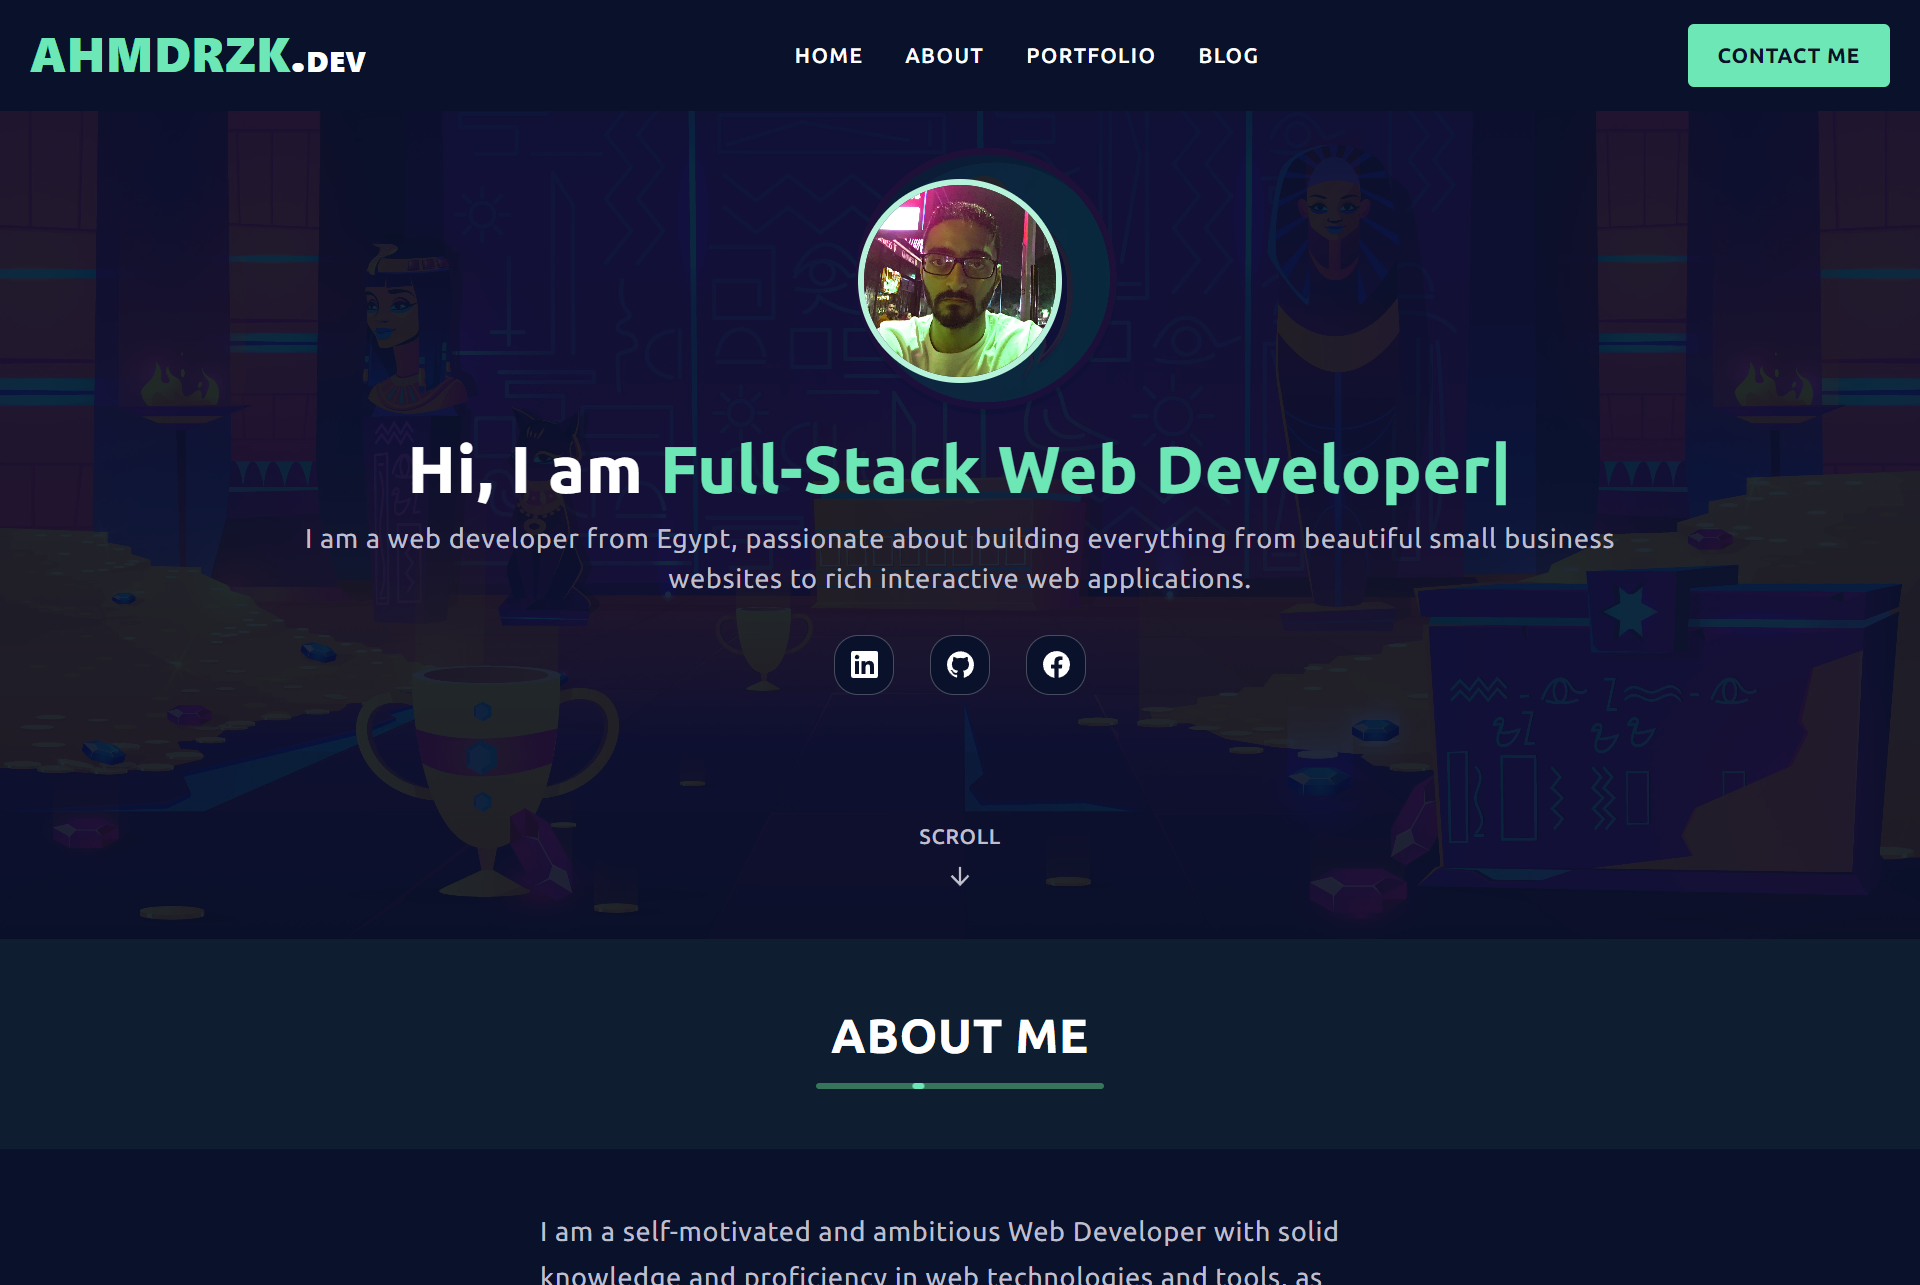
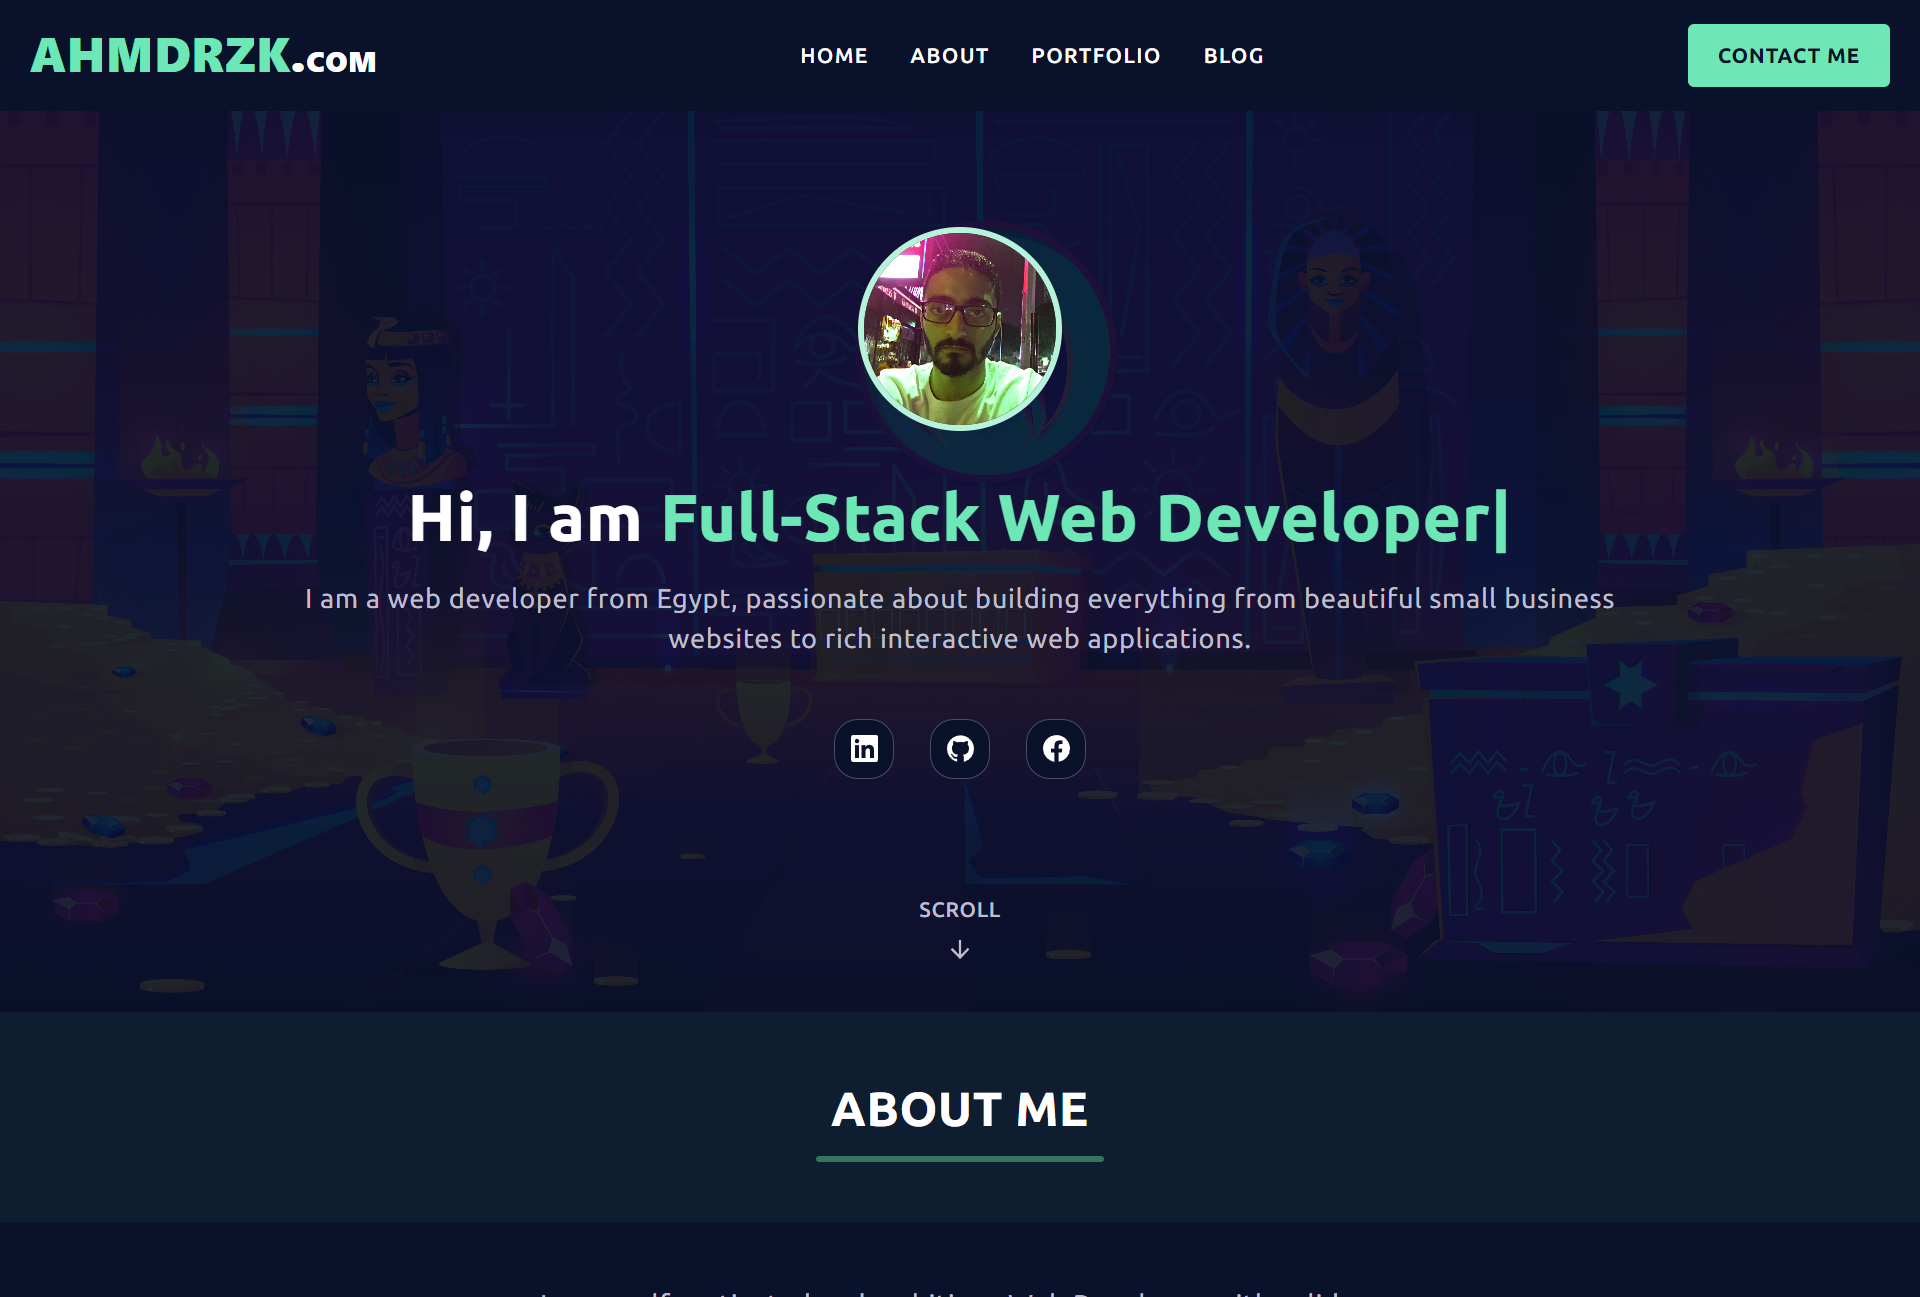
Update top level domain to .com

diff --git a/components/layout.tsx b/components/layout.tsx
@@ -19,7 +19,7 @@ const Layout = ({ className, children }: LayoutProps) => {
           <div className="logo">
             <Link href="/">
               AHMDRZK<span>.</span>
-              <span>DEV</span>
+              <span>COM</span>
             </Link>
           </div>
           <PrimaryNav isSideNavOpen={isSideNavOpen} setIsSideNavOpen={setIsSideNavOpen} />
